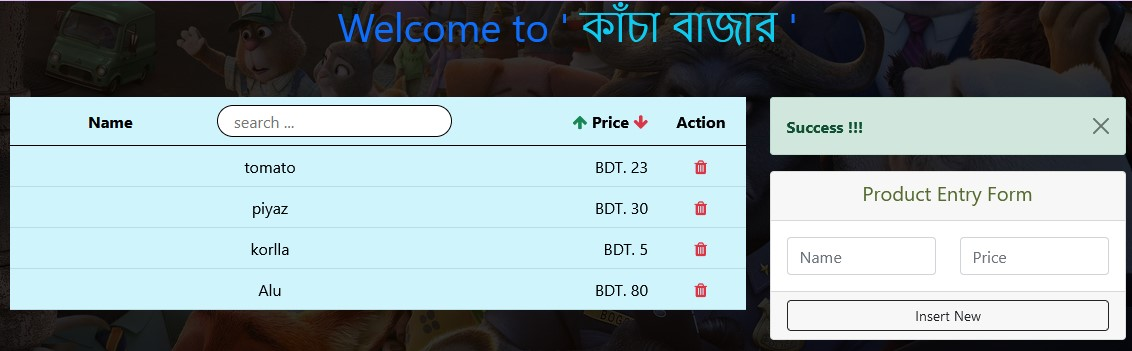
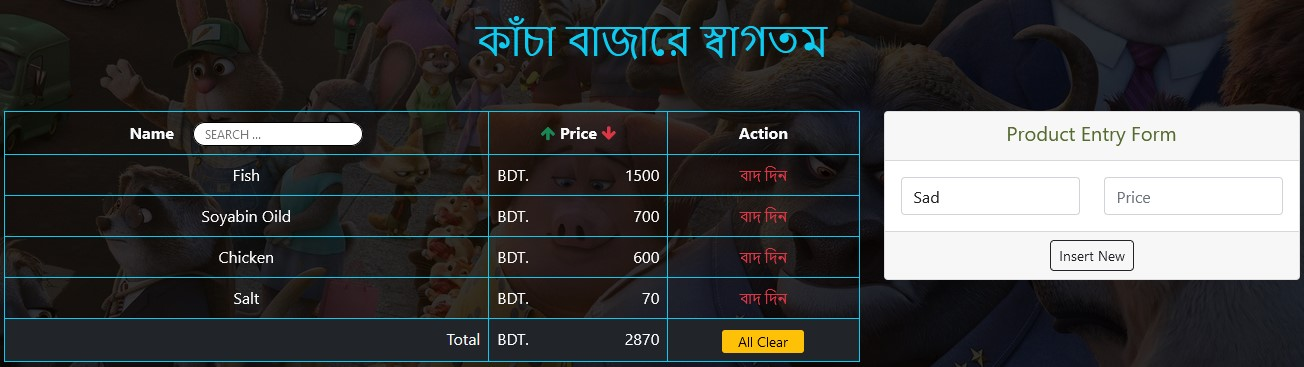
CRUD - (Read) Done

diff --git a/public/assets/js/main.js b/public/assets/js/main.js
@@ -1,6 +1,95 @@
 // IIFE
 (() => {
     
+    let productList = [
+        // {
+        //     id:1,
+        //     name: 'Tomato',
+        //     price: 130
+        // },
+        {
+            id:2,
+            name: 'Fish',
+            price: 1500
+        },
+        {
+            id:3,
+            name: 'Chicken',
+            price: 600
+        },
+        {
+            id:4,
+            name: 'Soyabin Oild',
+            price: 700
+        },
+        {
+            id:5,
+            name: 'Salt',
+            price: 70
+        }
+    ];
     
+
+    const productsCollection = document.querySelector('#productsCollection');
+    const sortBtnAsc = document.querySelector('#sortBtnAsc');
+    const sortBtnDesc = document.querySelector('#sortBtnDesc');
+    const sumOfProducts = document.querySelector('#sumOfProducts');
+    productsTableCreate(productList);
+
+    sortBtnAsc.addEventListener('click',e=>{
+        e.preventDefault();
+        clearProductTable();
+        productsTableCreate(productList,'asc');
+    });
+
+    sortBtnDesc.addEventListener('click',e=>{
+        e.preventDefault();
+        clearProductTable();
+        productsTableCreate(productList,'desc');
+    });
+
+    function clearProductTable(){
+        let html_collection = productsCollection.children;
+        let arr = [...html_collection].filter(e =>e.classList.contains("product"));
+        arr.map(x=>x.remove());
+    }
+
+    function productsTableCreate(list,sortBy='desc'){
+        if(sortBy=='desc'){
+            list.sort((a,b)=>{
+                return parseInt(a.price)>parseInt(b.price);
+            }).forEach(element => {
+                productRowCreate(element);
+            });
+        }else{
+            list.sort((a,b)=>{
+                return parseInt(a.price)<parseInt(b.price);
+            }).forEach(element => {
+                productRowCreate(element);
+            });
+        }
+        sumOfProducts.textContent = list.reduce((a,b)=>{
+            return { price : parseInt(a['price']) + parseInt(b['price'])};
+        }).price;
+    }
+
+    function productRowCreate(product){
+        const item = `
+            <tr id="item-${product.id}" class="product">
+                <td class="text-center">${product.name}</td>
+                <td class="text-end">
+                    <div class="clearfix">
+                        <span class="float-start">BDT.</span>
+                        <span class="float-end">${product.price}</span>
+                    </div>
+                </td>
+                <td class="text-center">
+                <button type="button" style="background: none; border: 0; padding:0">
+                    <span class="text-danger deleteBtn">বাদ দিন</span>
+                </button></td>
+            </tr>
+        `;
+        productsCollection.insertAdjacentHTML('afterbegin',item);
+    }
 
 })();

diff --git a/index.html b/index.html
@@ -38,9 +38,9 @@
                       <input type="search" placeholder="SEARCH ..." id="nameSearchInput"></th>
                       <th class="text-center">
                         <div class="price_head">
-                          <a href="#" id=""><i class="fa fa-arrow-up text-success"></i></a>
-                        Price
-                        <a href="#"><i class="fa fa-arrow-down text-danger"></i></a>
+                          <a href="#" id="sortBtnAsc"><i class="fa fa-arrow-up text-success"></i></a>
+                          Price
+                          <a href="#" id="sortBtnDesc"><i class="fa fa-arrow-down text-danger"></i></a>
                         </div>
                       </th>
                       <th class="text-center">Action</th>
@@ -48,19 +48,19 @@
                   </thead>
                   <tbody id="productsCollection">
                     <tr class="bg-dark">
-                      <td class="text-end">Total</td>
-                      <td class="text-end">
-                          <div class="clearfix">
-                              <span class="float-start">BDT.</span>
-                              <span class="float-end">3000</span>
-                          </div>
-                      </td>
-                      <td class="text-center">
-                        <form>
-                          <input id="resetAll" type="button" class="btn btn-sm btn-warning" value="All Clear">
-                        </form>
-                      </td>
-                  </tr>
+                        <td class="text-end">Total</td>
+                        <td class="text-end">
+                            <div class="clearfix">
+                                <span class="float-start">BDT.</span>
+                                <span class="float-end" id="sumOfProducts">3000</span>
+                            </div>
+                        </td>
+                        <td class="text-center">
+                          <form>
+                            <input id="resetAll" type="button" class="btn btn-sm btn-warning" value="All Clear">
+                          </form>
+                        </td>
+                    </tr>
                   </tbody>
                 </table>
               </div>
